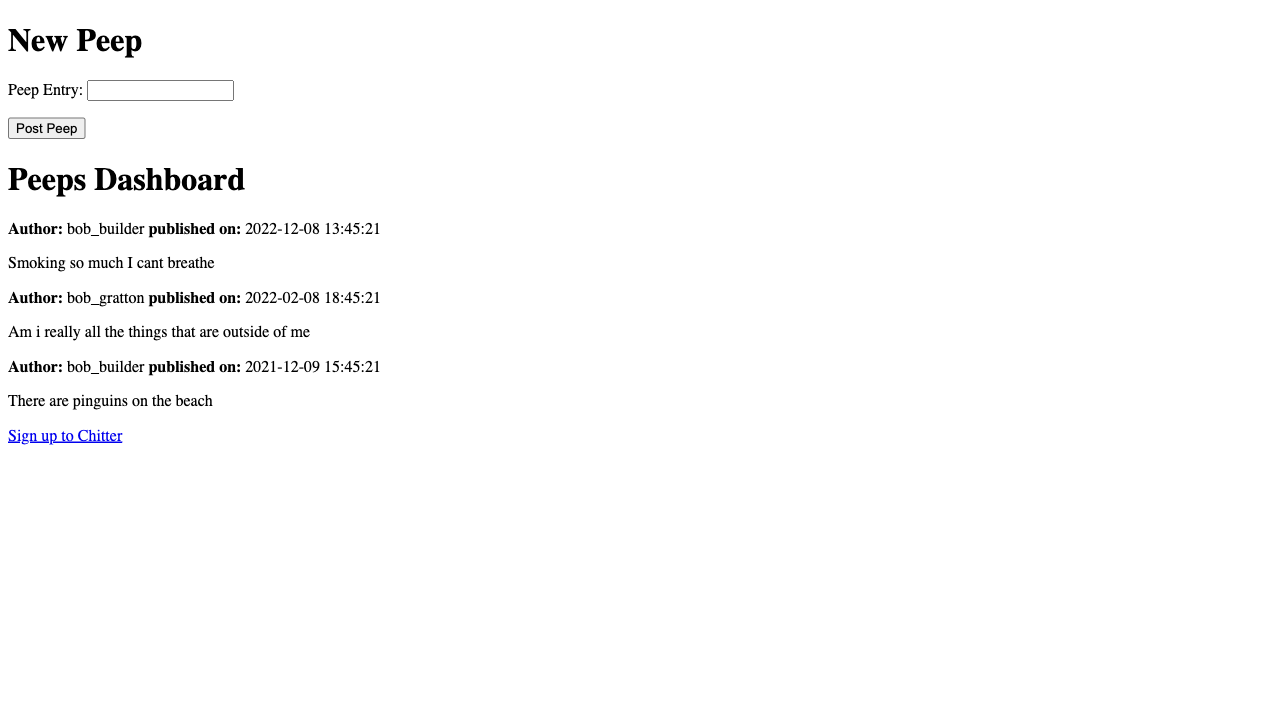
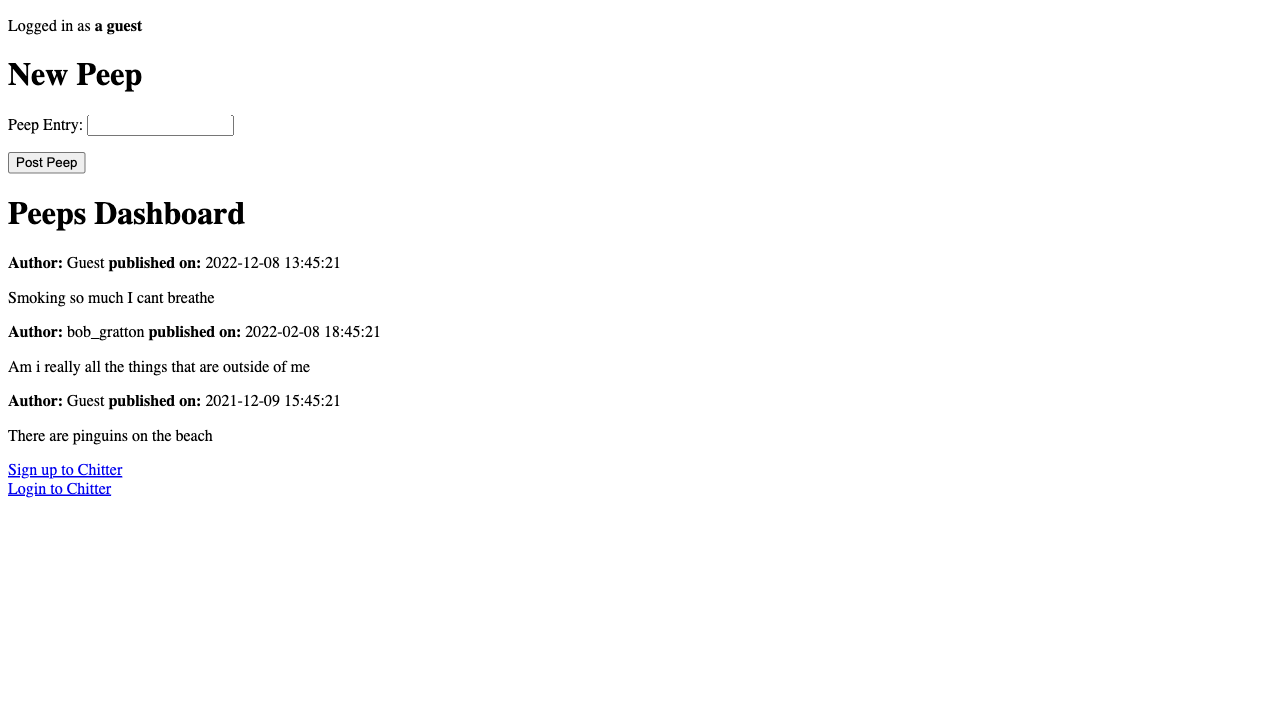
add session implementation

Changed region(s): [[0.0, 0.0306, 0.2812, 0.5194], [0.0, 0.55, 0.25, 0.7028]]

diff --git a/templates/login.html b/templates/login.html
@@ -1,0 +1,25 @@
+<!DOCTYPE html>
+<html lang="en">
+  <head>
+    <meta charset="utf-8">
+  </head>
+  <body>
+    <h1>Login</h1>
+    <form action="/login" method="POST">
+        {% if errors %}
+        <div class="t-errors">
+          Your form contained these errors: {{ errors }}
+        </div>
+        {% endif %}
+        <p>
+          <label for="email">Email</label>
+          <input type="text" name= "email" id="email">
+        </p>
+        <p>
+          <label for="password">Password</label>
+          <input type="text" name="password" id="password">
+        </p>
+        <input type="submit" value="Log In">
+      </form>
+  </body>
+</html>

diff --git a/templates/home.html b/templates/home.html
@@ -4,6 +4,7 @@
     <meta charset="utf-8">
   </head>
   <body>
+    <p>Logged in as <b>{{logged_in_as}}</b></p>
     <h1>New Peep</h1>
     <form action="/home" method="POST">
       {% if errors %}
@@ -25,6 +26,7 @@
         <p class="t-content">{{post.content}}</p>
       </div>
     {% endfor %}
-    <a href="/signup">Sign up to Chitter</a>
+    <a href="/signup">Sign up to Chitter</a><br>
+    <a href="/login">Login to Chitter</a>
   </body>
 </html>

diff --git a/tests/test_user_repository.py b/tests/test_user_repository.py
@@ -8,7 +8,7 @@ def test_get_user_with_post_id(db_connection):
     db_connection.seed("seeds/post_user.sql") # Seed our database with some test data
     user_repository = UserRepository(db_connection)
     user = user_repository.get_user_with_post_id(3)
[2 lines of base64/hex data omitted]
 
 """
 Create a new user, and add it to the database
@@ -22,7 +22,7 @@ def test_create_user(db_connection):
     binary_password = plain_password.encode("utf-8")
     hashed_password = hashlib.sha256(binary_password).hexdigest()
     users = user_repository.all()
[3 lines of base64/hex data omitted]
                     User(3, "Little Mermaid", "mermaid@sea.com", "little_mermaid", hashed_password)]
 
@@ -36,8 +36,10 @@ def test_get_all_users(db_connection): # See conftest.py to learn what `db_conne
 
     users = repository.all()
     # Assert on the results
[2 lines of base64/hex data omitted]
+    assert users == [User(1, "Guest", "bob@gmail.com", "Guest", 
[1 lines of base64/hex data omitted]
+                    User(2, "Bob Gratton", "bob_gratton@hotmail.com", "bob_gratton", 
[1 lines of base64/hex data omitted]
     
 """
 Test if the test password works with an existing email and password combination
@@ -47,3 +49,24 @@ def test_check_password(db_connection):
     repository = UserRepository(db_connection)
     assert True == repository.check_password("bob_gratton@hotmail.com", "0987654")
     assert False == repository.check_password("bob@gmail.com", "falseemail")
+
+"""
+Find user, given their email
+"""
+def test_find_user_by_email(db_connection):
+    db_connection.seed("seeds/post_user.sql") # Seed our database with some test data
+    repository = UserRepository(db_connection)
+    user = repository.find_by_email("bob_gratton@hotmail.com")
+    assert user == User(2, "Bob Gratton", "bob_gratton@hotmail.com", "bob_gratton", 
[1 lines of base64/hex data omitted]
+
+"""
+Find user, given their id
+"""
+def test_find_user_by_id(db_connection):
+    db_connection.seed("seeds/post_user.sql") # Seed our database with some test data
+    repository = UserRepository(db_connection)
+    user = repository.find_by_id(2)
+    assert user == User(2, "Bob Gratton", "bob_gratton@hotmail.com", "bob_gratton", 
[1 lines of base64/hex data omitted]
+

diff --git a/app.py b/app.py
@@ -1,5 +1,5 @@
 import os, datetime
-from flask import Flask, request, redirect, render_template
+from flask import Flask, request, redirect, render_template, session
 from lib.database_connection import get_flask_database_connection
 from lib.post_repository import PostRepository
 from lib.post import Post
@@ -8,6 +8,7 @@ from lib.user import User
 
 # Create a new Flask app
 app = Flask(__name__)
+app.config['SECRET_KEY'] = "secret key"
 
 # == Your Routes Here ==
 
@@ -23,11 +24,17 @@ def get_posts():
     post_repository = PostRepository(connection)
     posts = post_repository.all()
     user_repository = UserRepository(connection)
+    logged_in_as = "a guest"
+    if 'user_id' in session:
+        logged_in_as = user_repository.find_by_id(session['user_id']).username
+    else:
+        pass
     usernames = []
     for post in posts:
         user = user_repository.get_user_with_post_id(post.user_id)
         usernames.append(user.username)
-    return render_template("home.html", posts=posts, usernames=usernames)
+    return render_template("home.html", posts=posts, usernames=usernames,
+                        logged_in_as = logged_in_as)
 
 @app.route('/home', methods=['POST'])
 def create_post():
@@ -37,7 +44,10 @@ def create_post():
     # TODO: add real user_id of the logged in user
     posted_time_list = str(datetime.datetime.now()).split(".")
     posted_time = "".join(posted_time_list[0])
-    new_post = Post(None, posted_time, content, 1)
+    if 'user_id' in session:
+        new_post = Post(None, posted_time, content, session['user_id'])
+    else:
+        new_post = Post(None, posted_time, content, 1)
     post_repository.create(new_post)
     return redirect(f"/home")
 
@@ -59,6 +69,23 @@ def sign_up_user():
     #     return render_template("new_album.html", errors=errors)
     user_repository.create(user)
     return redirect(f"/home")
+
+@app.route('/login')
+def login():
+    return render_template('login.html')
+
+@app.route('/login', methods=['POST'])
+def login_post():
+    connection = get_flask_database_connection(app)
+    email = request.form['email']
+    password = request.form['password']
+    user_repository = UserRepository(connection)
+    if user_repository.check_password(email, password):
+        user = user_repository.find_by_email(email)
+        session['user_id'] = user.id
+        return redirect(f"/home")
+    else:
+        return redirect(f"/home")
 # == End Example Code ==
 
 # These lines start the server if you run this file directly

diff --git a/tests/test_app.py b/tests/test_app.py
@@ -10,12 +10,12 @@ def test_get_posts(page, test_web_address, db_connection):
     page.screenshot(path="screenshot.png", full_page=True)
     div_tags = page.locator("div")
     expect(div_tags).to_have_text([
-    "Author: bob_builder published on: 2022-12-08 13:45:21 Smoking so much I cant breathe",
+    "Author: Guest published on: 2022-12-08 13:45:21 Smoking so much I cant breathe",
     "Author: bob_gratton published on: 2022-02-08 18:45:21 Am i really all the things that are outside of me",
-    "Author: bob_builder published on: 2021-12-09 15:45:21 There are pinguins on the beach",
+    "Author: Guest published on: 2021-12-09 15:45:21 There are pinguins on the beach",
     ])
 
-def test_create_album(page, test_web_address, db_connection):
+def test_create_user(page, test_web_address, db_connection):
     page.set_default_timeout(1000)
     db_connection.seed("seeds/post_user.sql")
     page.goto(f"http://{test_web_address}/home")
@@ -38,3 +38,13 @@ def test_create_post(page, test_web_address, db_connection):
                                         "Smoking so much I cant breathe",
                                         "Am i really all the things that are outside of me",
                                         "There are pinguins on the beach"])
+    
+
+def test_login(page, test_web_address, db_connection):
+    page.set_default_timeout(1000)
+    db_connection.seed("seeds/post_user.sql")
+    page.goto(f"http://{test_web_address}/home")
+    page.click("text=Login to Chitter")
+    page.fill("input[name=email]", "allo@gmail.com")
+    page.fill("input[name=password]", "123456")
+    page.click("text='Log In'")

diff --git a/lib/user_repository.py b/lib/user_repository.py
@@ -33,3 +33,15 @@ class UserRepository:
             [email, hashed_password_attempt])
 
         return len(rows) > 0
+    
+    def find_by_email(self, email):
+        rows = self._connection.execute(
+            'SELECT * FROM users WHERE email = %s', [email])
+        return User(rows[0]["id"], rows[0]["name"], rows[0]["email"], 
+                    rows[0]["username"], rows[0]["password"])
+    
+    def find_by_id(self, id):
+        rows = self._connection.execute(
+            'SELECT * FROM users WHERE id = %s', [id])
+        return User(rows[0]["id"], rows[0]["name"], rows[0]["email"], 
+                    rows[0]["username"], rows[0]["password"])
